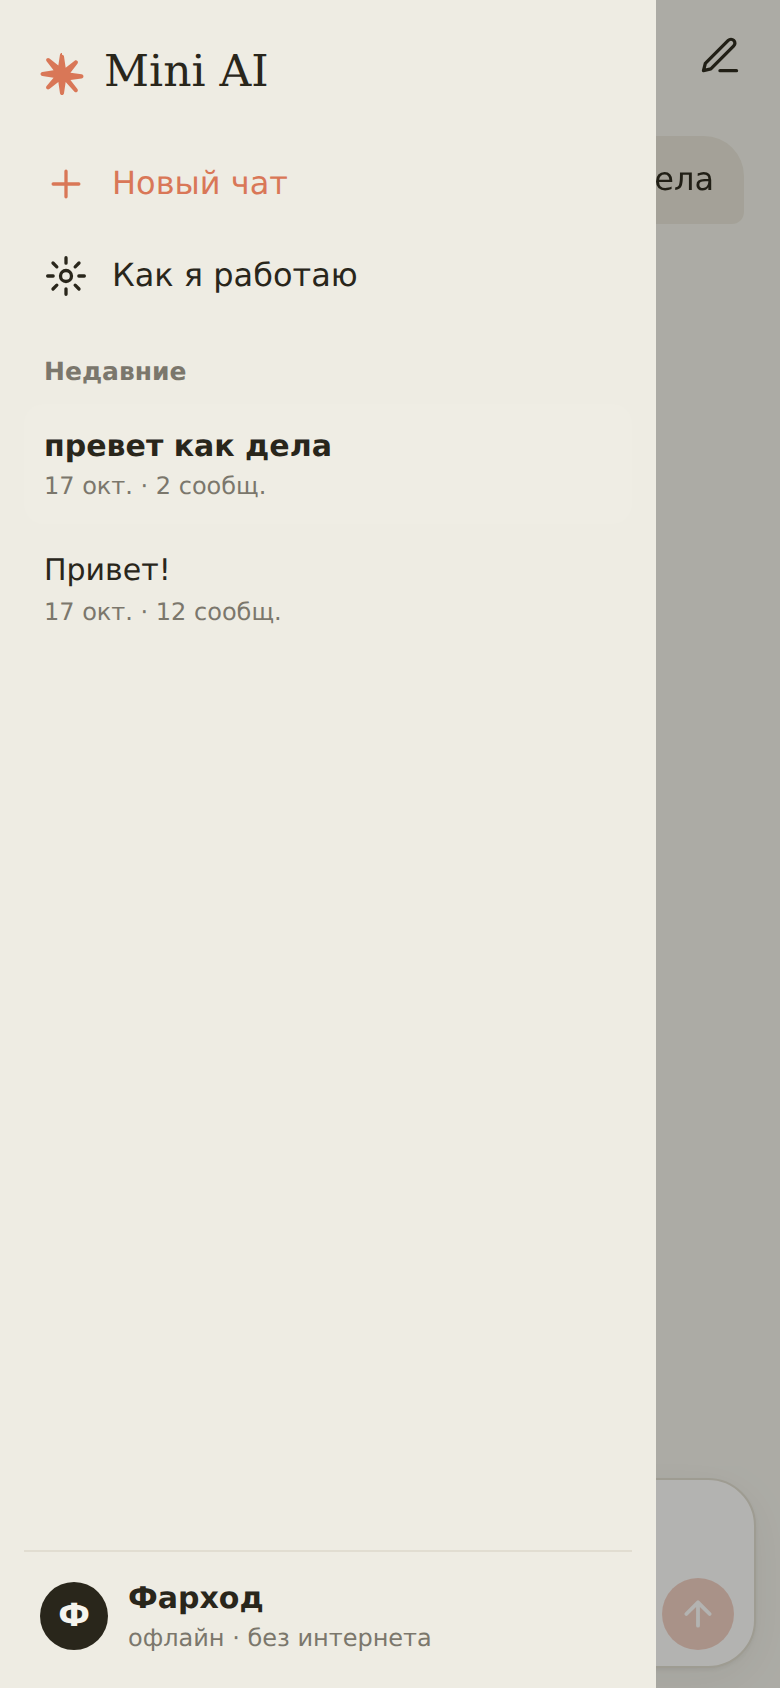
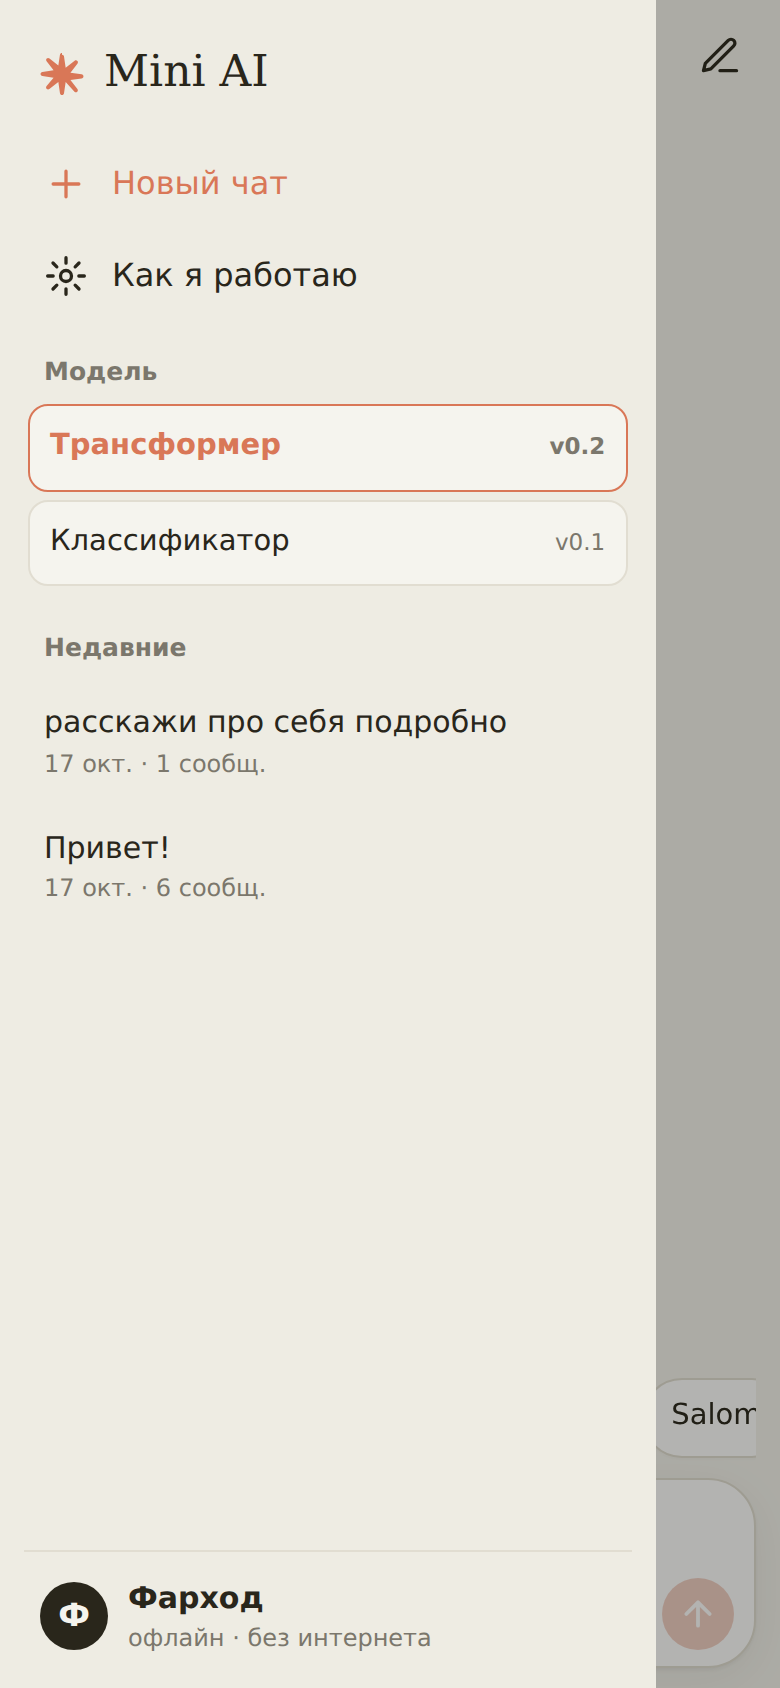
Скриншоты v0.2 (диалог ru+uz, стриминг, тепловая карта, тёмная тема), build.sh проверяет model_transformer.js
tools/screenshots.py: добавлен скриншот реального посимвольного стриминга
(6_streaming.png), остальные экраны пересняты с трансформером по умолчанию.
android/build.sh: проверка наличия app/www/model_transformer.js перед сборкой.

diff --git a/tools/screenshots.py b/tools/screenshots.py
@@ -1,5 +1,10 @@
 """Скриншоты интерфейса: headless Chrome 390×844 @2x (как телефон).
-Запуск: /tmp/jv/bin/python tools/screenshots.py"""
+Запуск: /tmp/jv/bin/python tools/screenshots.py
+
+Показываем v0.2 (трансформер, диалог ru+uz, стриминг, тепловая карта внимания)
+и тёмную тему. Старые файлы (1_empty_chat.png и т.д.) перезаписываются —
+это те же экраны, но теперь с трансформером по умолчанию.
+"""
 import sys
 from pathlib import Path
 
@@ -33,21 +38,34 @@ def run(scheme, suffix):
         page.evaluate("window.__FAST__ = true")
         if suffix == "":
             shot(page, "1_empty_chat.png")
+
+        # ---------- диалог (трансформер, ru+uz) ----------
         for q in DIALOG:
             page.evaluate("q => MiniApp.ask(q)", q)
-            page.wait_for_timeout(80)
+            page.wait_for_timeout(120)
         shot(page, f"2_dialog{suffix}.png")
+
+        # ---------- тепловая карта внимания ----------
         page.evaluate("MiniApp.openSheet()")
         shot(page, f"3_how_it_works{suffix}.png")
+        page.evaluate("MiniApp.closeSheet()")
+
         if suffix == "":
-            page.evaluate("MiniApp.closeSheet(); MiniApp.newChat();")
+            # ---------- настоящий посимвольный стриминг (без __FAST__) ----------
+            page.evaluate("MiniApp.newChat(); window.__FAST__ = false;")
+            page.evaluate("q => MiniApp.ask(q)", "расскажи про себя подробно")
+            page.wait_for_timeout(650)   # ловим момент, когда буквы ещё печатаются
+            shot(page, "6_streaming.png")
             page.evaluate("window.__FAST__ = true")
+
+            # ---------- боковое меню с переключателем модели ----------
+            page.evaluate("MiniApp.newChat();")
             page.evaluate("q => MiniApp.ask(q)", "превет как дела")
             page.wait_for_timeout(80)
             page.evaluate("MiniApp.openDrawer()")
             shot(page, "4_drawer.png")
         else:
-            page.evaluate("MiniApp.closeSheet(); MiniApp.newChat();")
+            page.evaluate("MiniApp.newChat();")
             shot(page, "5_empty_dark.png")
         if errs:
             print("JS ERRORS:", errs)
